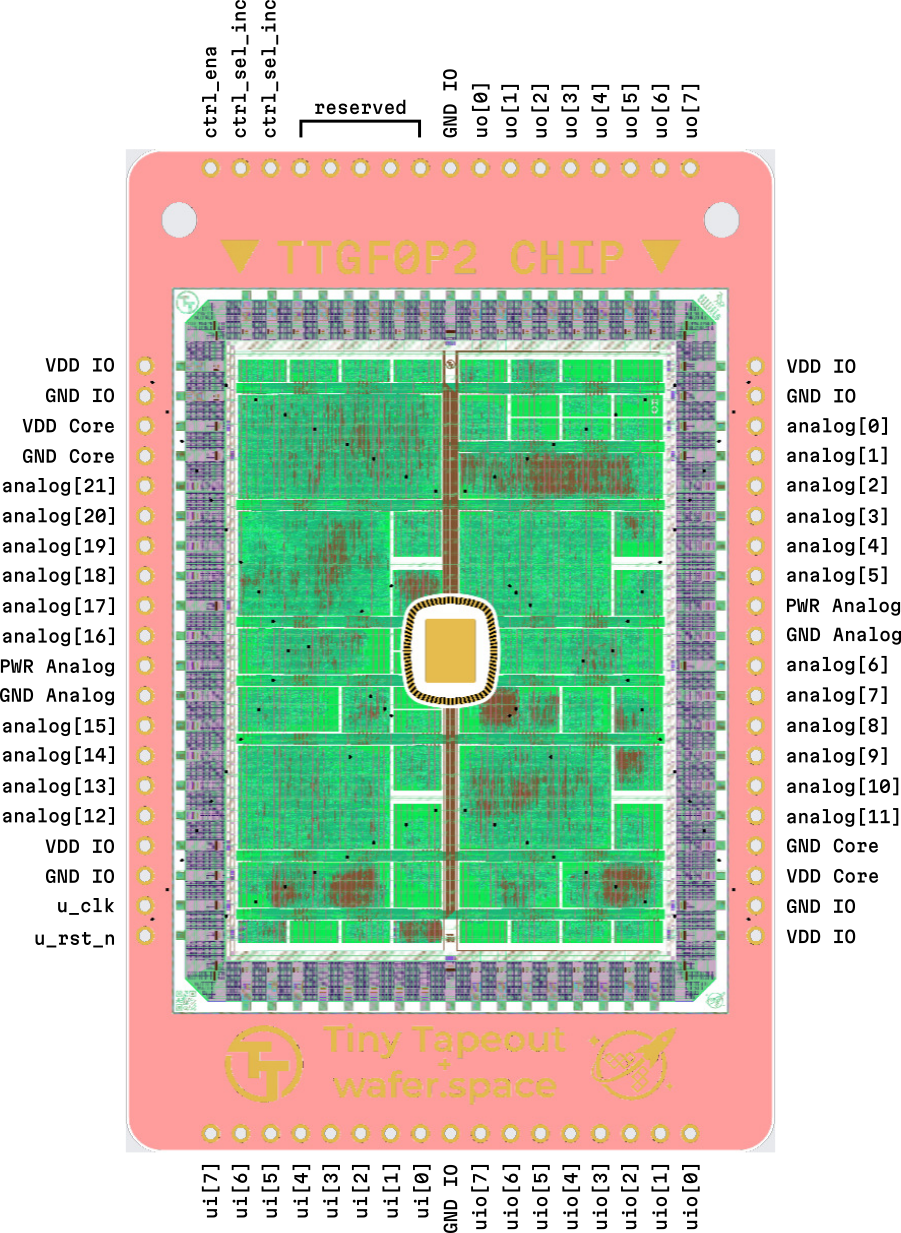
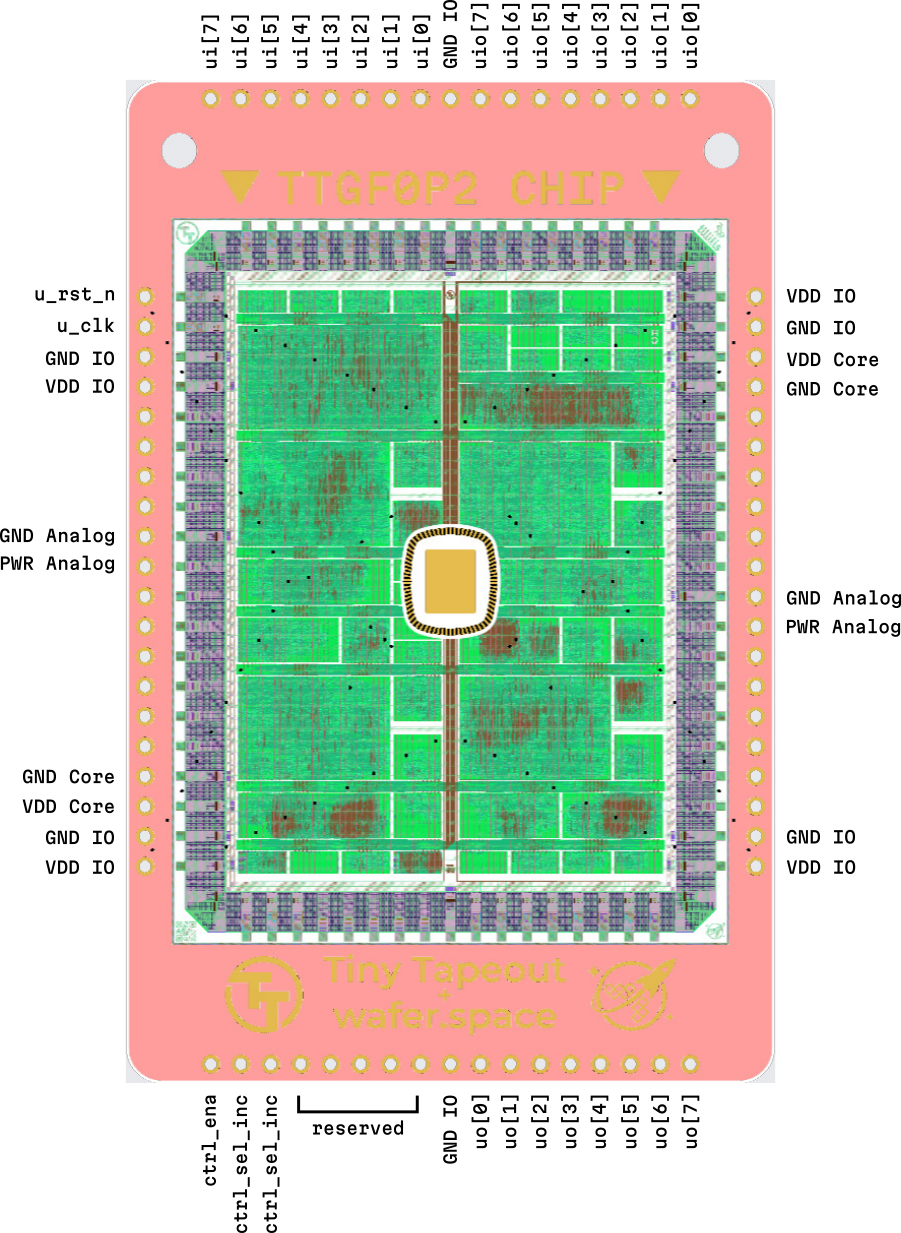
docs(guides/get-started-had-gf0p2): add info for testing bonds, correct pinout

diff --git a/content/guides/get-started-had-gf0p2/_index.en.md b/content/guides/get-started-had-gf0p2/_index.en.md
@@ -19,7 +19,8 @@ to interact with the mux onboard in order to select one of 52 designs onboard.
 
 {{% notice note %}}
 We only had an ~80% yield of boards with all pads successfully bonded, so there is a possibility that your board may
-not be fully functional. If you are running into any issues, this is a possible cause.
+not be fully functional. If you are running into any issues, this is a possible cause. We will explain how to test
+whether your board is functional later in the guide.
 {{% /notice %}}
 
 {{% notice warning %}}
@@ -29,8 +30,8 @@ VIO in this case can be 3.3V or 5V, but Vcore **must** be 3.3V. If using differe
 be ramped up/down together.
 \
 \
-Determining which variant you have will require you to bring up the chip at 3.3V first and read the onboard chip ROM - 
-this is covered later in this guide.
+Determining which variant you have will require you to bring up the chip at 3.3V first and read the onboard chip ROM or
+checking if VDD Core and VDD IO are shorted - if so, then you have a TTP2 variant.
 {{% /notice %}}
 
 ## Overview
@@ -101,6 +102,27 @@ VDD IO and VDD Core must not exceed 3.3V. These can be shorted together on the `
 ## Analog I/O
 
 This chip does not support any analog projects.
+
+## Is the chip alive?
+
+You will require a multimeter for this section. Turn it to the diode checker mode, place the positive probe on a ground
+pad and observe the following:
+
+- ~0.687V on any I/O pad
+- ~0.413 on a power rail
+- 0V on a ground pin
+
+{{% figure src="images/probe_test_io.jpg" title="Testing the `u_rst_n` pin" %}}
+
+{{% figure src="images/probe_test_power.jpg" title="Testing VDD IO"%}}
+
+{{% figure src="images/probe_test_ground.jpg" title="Testing GND IO" %}}
+
+{{% notice warning %}}
+You will have to check every pin to ensure full functionality. As mentioned before, there was an 80% success rate with
+the bonding, so some pins may not be connected fully.
+{{% /notice %}}
+
 
 ## Bring-up
 